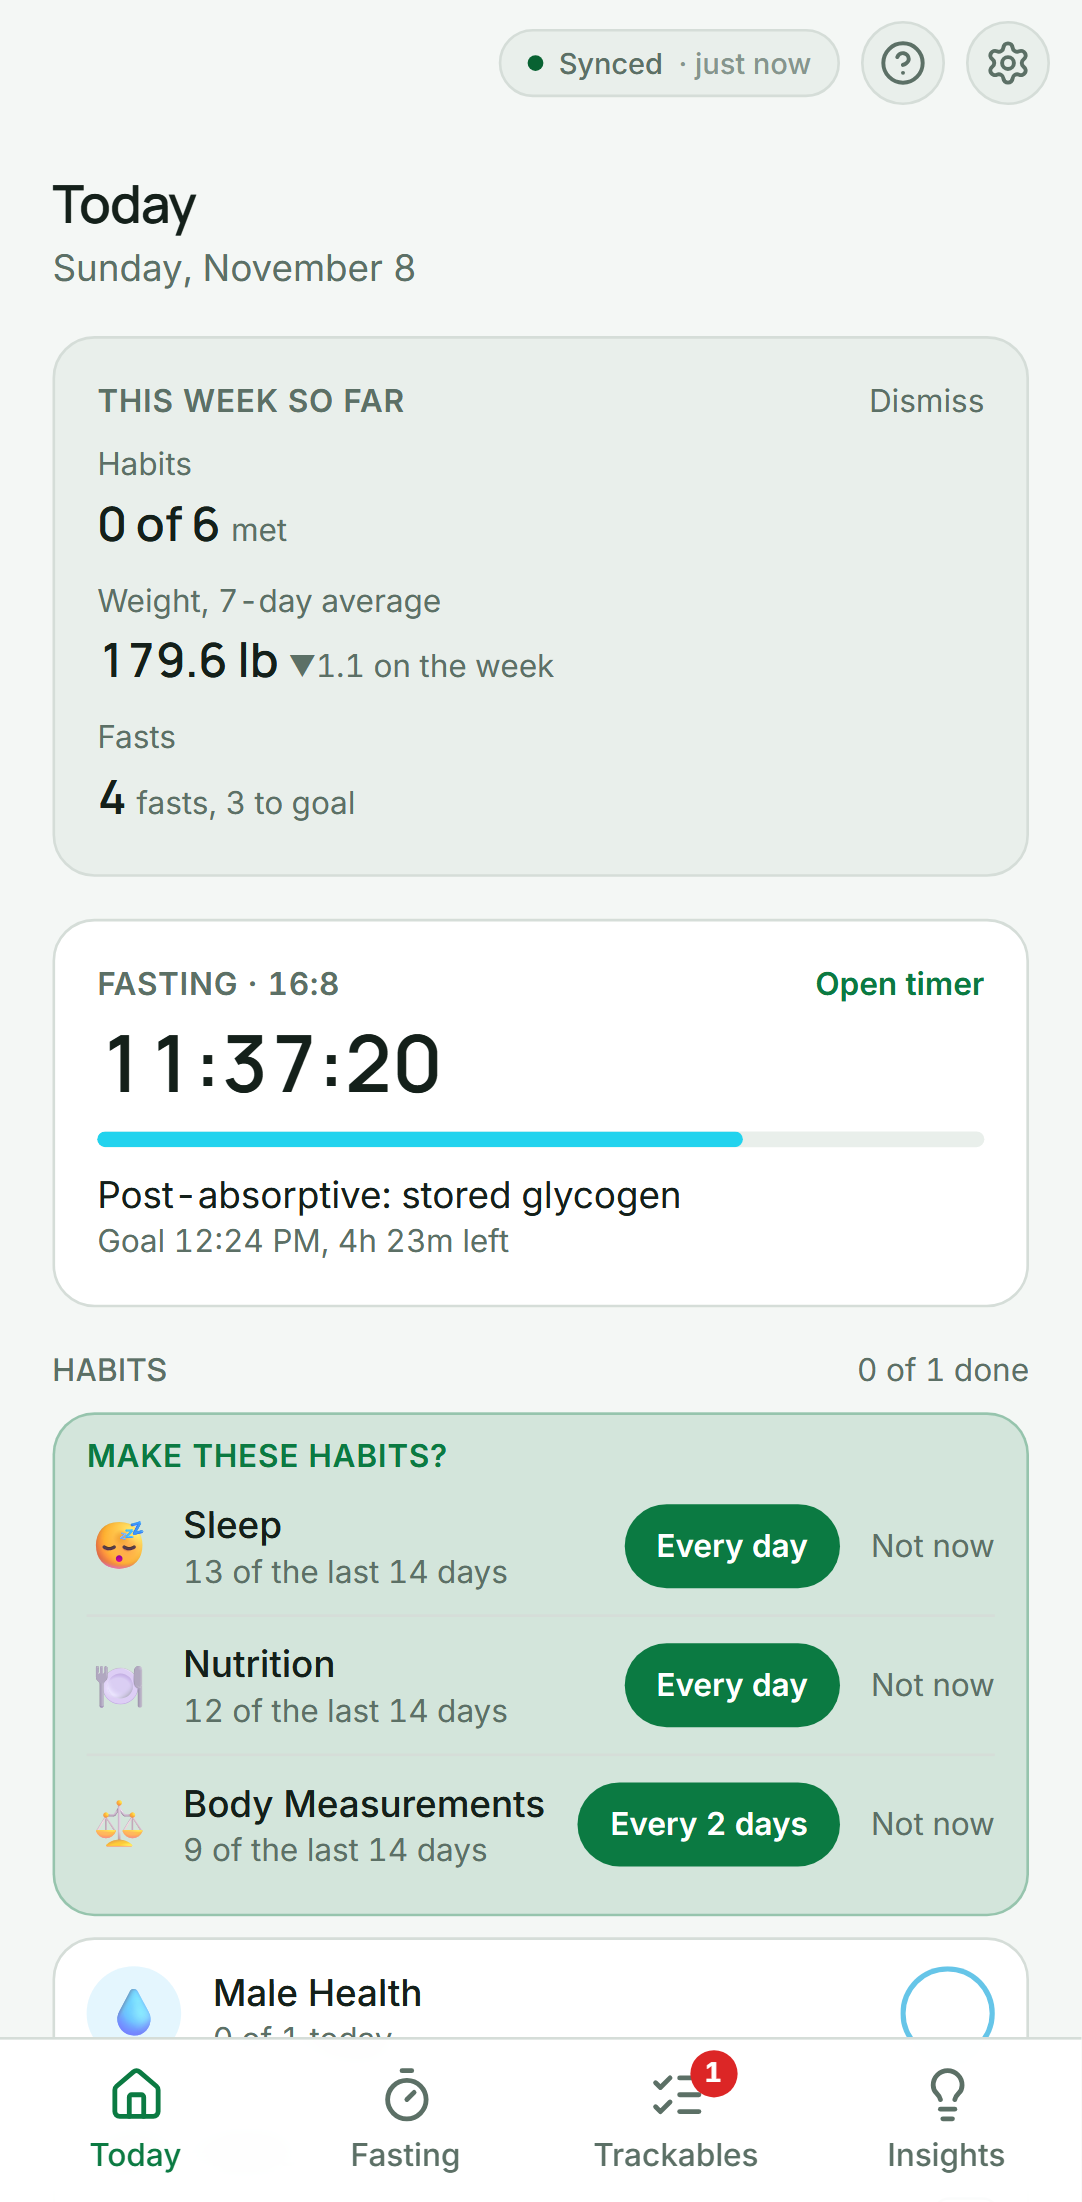
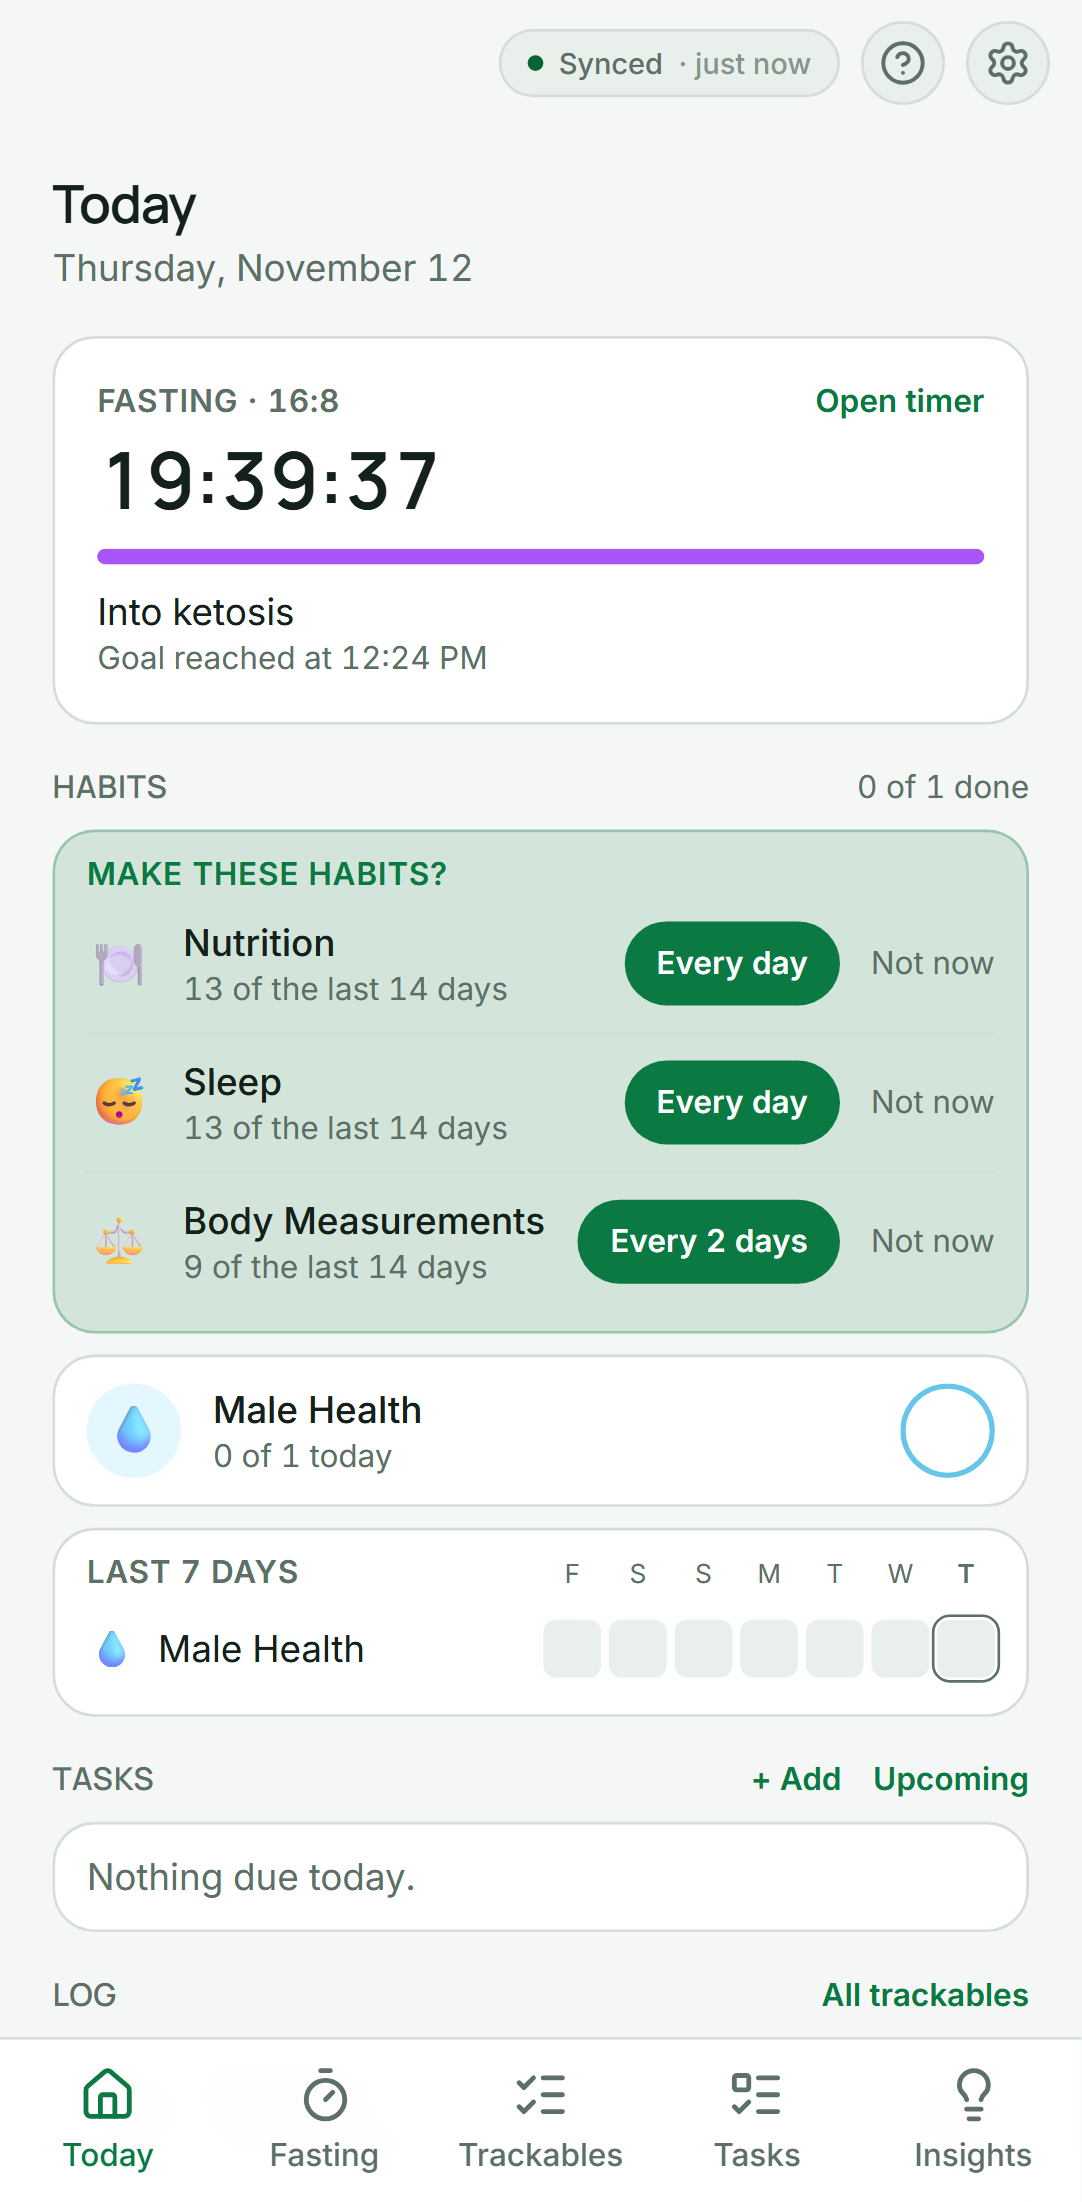
feat: one undo message for the whole app, and README screenshots of Tasks and Done (#93)
## What

Items 4 and 5 of batch B. ARCHITECTURE.md 3.67 covers the first.

- **One undo message for the whole app:** quick logging and task actions
now offer Undo through one store (`stores/undo.svelte.ts`) and one toast
mounted in App. Before this, checking a habit and then a task within six
seconds stacked two messages in the same spot. A newer message now
replaces the older one, and it survives moving between pages.
- **README screenshots of Tasks and Done:** a Garden project and the
Done page, captured from the real app with fictional data by `npm run
screenshots`. Today's screenshot now shows the Tasks block.
- **Browser tests:** the search and overdue tests now wait for a closing
sheet to be gone before the next key or tap. A new test checks that only
one undo message shows at a time.

## Why

Zach approved batch B items 4 and 5 from the project review.

## How it was tested

- `npm run check`: 0 errors
- `npm test`: all passing
- `npm run e2e`: 86 passed, including the new undo test and the search
test, each run 3 times
- I looked at all the new and updated screenshots

## Checklist

- [x] PR title follows Conventional Commits (`feat:`, `fix:`, `docs:`
...)
- [x] Tests added or updated where it makes sense
- [x] README / docs updated if behaviour or config changed
- [x] No secrets, personal data or employer/client names

diff --git a/e2e/screenshots.capture.ts b/e2e/screenshots.capture.ts
@@ -82,6 +82,44 @@ test('capture README screenshots', async ({ page }) => {
   await expect(page.getByRole('heading', { name: 'Dates', level: 1 })).toBeVisible();
   await shot(page, 'dates');
 
+  // Tasks: a project with sections, dates typed in plain words, a repeating task, subtasks, and a few done.
+  await page.goto('/#/tasks');
+  await page.getByRole('button', { name: '+ Project' }).click();
+  const projectSheet = page.getByRole('dialog');
+  await projectSheet.getByRole('textbox', { name: 'Name' }).fill('Garden');
+  await projectSheet.getByRole('combobox', { name: 'Sections' }).selectOption({ label: 'Now / Next / Later' });
+  await projectSheet.getByRole('button', { name: 'Save', exact: true }).click();
+  const add = async (section: string, ...names: string[]) => {
+    const box = page.getByRole('textbox', { name: `Add a task to ${section}` });
+    for (const name of names) {
+      await box.fill(name);
+      await box.press('Enter');
+      await expect(box).toHaveValue('');
+    }
+  };
+  await add('Now', 'Water the tomatoes every 2 days', 'Buy compost tomorrow', 'Fix the fence post fri', 'Plant the bulbs');
+  await add('Next', 'Clean the gutters next week', 'Rake leaves this weekend');
+  await add('Later', 'Build a raised bed', 'Prune the apple tree in 3 months');
+  await page.getByRole('button', { name: /^Fix the fence post/ }).click();
+  const taskSheet = page.getByRole('dialog');
+  for (const sub of ['Buy a post', 'Dig out the old one', 'Set it in concrete']) {
+    await taskSheet.getByRole('textbox', { name: 'New subtask' }).fill(sub);
+    await taskSheet.getByRole('textbox', { name: 'New subtask' }).press('Enter');
+    await expect(taskSheet.getByRole('textbox', { name: 'New subtask' })).toHaveValue('');
+  }
+  await taskSheet.getByRole('checkbox', { name: 'Complete Buy a post' }).click();
+  await page.keyboard.press('Escape');
+  await page.getByRole('checkbox', { name: 'Complete Plant the bulbs' }).click();
+  await page.getByRole('checkbox', { name: 'Complete Water the tomatoes' }).click();
+  await expect(page.getByRole('checkbox', { name: 'Complete Plant the bulbs' })).toHaveCount(0);
+  await page.evaluate(() => window.scrollTo(0, 0));
+  await page.waitForTimeout(6500); // Let the Undo message go.
+  await shot(page, 'tasks');
+
+  await page.goto('/#/tasks/done');
+  await expect(page.getByRole('heading', { name: 'Done', level: 1 })).toBeVisible();
+  await shot(page, 'tasks-done');
+
   // Today: a habit to check (Male Health once a day), the running fast, what's been logged, and the dates just added.
   await page.goto('/#/trackables');
   await page.getByRole('link', { name: /Male Health/ }).click();

diff --git a/src/lib/stores/quickLog.svelte.ts b/src/lib/stores/quickLog.svelte.ts
@@ -1,28 +1,24 @@
 import { addTrackableEntry, deleteTrackableEntry, type TrackableDefinition, type TrackableEntry } from '../db';
 import { formatShortDate, startOfDay } from '../utils/time';
+import { undoToast } from './undo.svelte';
 
 /**
  * Logging from a list: the "+" and check buttons on Trackables and Today, and
  * the day cells of Today's habit matrix. A trackable with fields (or dates)
  * opens the Log entry sheet; one without logs right away, the "I just did it"
  * of a days-since app, and checking it again takes the entry back off. Either
- * way there are a few seconds to undo. QuickLogHost.svelte renders the sheet,
- * the undo toast and errors.
+ * way there are a few seconds to undo (stores/undo.svelte.ts). QuickLogHost.svelte
+ * renders the sheet and errors.
  */
 class QuickLogStore {
   sheetOpen = $state(false);
   sheetTrackable = $state<TrackableDefinition | null>(null);
   /** When the sheet's new entry starts out: a day picked in the matrix; undefined = now. */
   sheetTimestamp = $state<number | undefined>(undefined);
-  undo = $state<{ message: string; revert: () => Promise<unknown> } | null>(null);
   error = $state('');
 
-  private undoTimer: ReturnType<typeof setTimeout> | undefined;
-
   private offerUndo(message: string, revert: () => Promise<unknown>) {
-    clearTimeout(this.undoTimer);
-    this.undo = { message, revert };
-    this.undoTimer = setTimeout(() => (this.undo = null), 6000);
+    undoToast.offer(message, revert);
   }
 
   /** Opens the sheet, or logs a trackable without fields right away. */
@@ -99,14 +95,6 @@ class QuickLogStore {
     const logged = entries.some((e) => startOfDay(e.timestamp) === target);
     if (logged) await this.uncheckOn(t, entries, target);
     else await this.logOn(t, at);
-  }
-
-  async undoNow() {
-    if (!this.undo) return;
-    const { revert } = this.undo;
-    this.undo = null;
-    clearTimeout(this.undoTimer);
-    await revert();
   }
 }
 

diff --git a/e2e/tasks-review.spec.ts b/e2e/tasks-review.spec.ts
@@ -77,3 +77,28 @@ test('Done lists what was completed by day, repeats included, and Insights and t
   await expect(page.getByRole('region', { name: 'Year in review' })).toContainText('Tasks done');
   expect(problems).toEqual([]);
 });
+
+test('one undo message at a time: logging a trackable and then completing a task shows only the latest', async ({ page }) => {
+  await quickAdd(page, 'Post the parcel today');
+  // A trackable without fields logs in one tap, with Undo.
+  await page.goto('/#/trackables');
+  await page.getByRole('button', { name: '+ New' }).click();
+  const sheet = page.getByRole('dialog');
+  await sheet.getByPlaceholder('e.g. Watered Plants').fill('Stretch');
+  await sheet.getByRole('button', { name: 'Save', exact: true }).click();
+  // Saving opens the new trackable's page; go back to the list from there.
+  await expect(page.getByRole('heading', { name: 'Stretch', level: 1 })).toBeVisible();
+  await page.goto('/#/trackables');
+  await expect(page.getByRole('heading', { name: 'Trackables', level: 1 })).toBeVisible();
+  await page.getByRole('button', { name: 'Log Stretch' }).click();
+  const undo = page.getByRole('status').filter({ hasText: 'Undo' });
+  await expect(undo).toContainText('Logged Stretch');
+
+  // Within its six seconds, a task completed on Today replaces it: one message, the latest.
+  await page.goto('/#/');
+  await page.getByRole('region', { name: 'Tasks' }).getByRole('checkbox', { name: 'Complete Post the parcel' }).click();
+  await expect(undo).toHaveCount(1);
+  await expect(undo).toContainText('Completed Post the parcel');
+  await page.getByRole('button', { name: 'Undo' }).click();
+  await expect(page.getByRole('region', { name: 'Tasks' }).getByRole('checkbox', { name: 'Complete Post the parcel' })).toBeVisible();
+});

diff --git a/src/lib/components/TaskHost.svelte b/src/lib/components/TaskHost.svelte
@@ -2,14 +2,13 @@
   import { onDestroy } from 'svelte';
   import { liveQuery } from 'dexie';
   import { db } from '../db';
-  import { fly } from 'svelte/transition';
   import type { Task, TaskProject } from '../db';
   import { taskUi } from '../stores/taskUi.svelte';
   import BottomSheet from './BottomSheet.svelte';
   import TaskSheet from './TaskSheet.svelte';
   import DateChoices from './DateChoices.svelte';
 
-  // The task sheet and the undo toast (stores/taskUi.svelte.ts). Mounted once
+  // The task sheet and the reschedule sheet (stores/taskUi.svelte.ts); the undo message is UndoToast.svelte. Mounted once
   // on each page that lists tasks, with the tasks and projects it already reads.
   let { tasks, projects }: { tasks: readonly Task[]; projects: readonly TaskProject[] } = $props();
   // Only the sheet needs the completion history.
@@ -36,16 +35,6 @@
   }
 </script>
 
-{#if taskUi.undo}
-  <div
-    class="fixed inset-x-0 bottom-20 z-30 mx-auto flex w-[calc(100%-2.5rem)] max-w-md items-center justify-between gap-3 rounded-xl border border-border bg-surface px-4 py-3 text-sm shadow-lg lg:bottom-6"
-    role="status"
-    transition:fly={{ y: 16, duration: 150 }}
-  >
-    <span class="truncate text-text">{taskUi.undo.message}</span>
-    <button class="shrink-0 font-semibold text-brand" onclick={() => taskUi.undoNow()}>Undo</button>
-  </div>
-{/if}
 {#if taskUi.error}
   <p class="px-5 text-sm text-danger">{taskUi.error}</p>
 {/if}

diff --git a/src/lib/stores/taskUi.svelte.ts b/src/lib/stores/taskUi.svelte.ts
@@ -1,6 +1,7 @@
 import { completeTask, db, skipTask, undoComplete, updateTask, type Task } from '../db';
 import { describeDue, dayKey } from '../utils/tasks';
 import { followDueDate } from '../utils/taskRepeat';
+import { undoToast } from './undo.svelte';
 
 /**
  * The task sheet and the "Completed ... Undo" toast, shared by every page that
@@ -14,10 +15,8 @@ class TaskUi {
   /** The task the sheet shows; the sheet follows it as it changes or syncs. */
   taskId = $state<string | null>(null);
   open = $state(false);
-  undo = $state<{ message: string; revert: () => Promise<unknown> } | null>(null);
   error = $state<string | null>(null);
 
-  private undoTimer: ReturnType<typeof setTimeout> | undefined;
 
   show(id: string) {
     this.taskId = id;
@@ -25,9 +24,7 @@ class TaskUi {
   }
 
   private offerUndo(message: string, revert: () => Promise<unknown>) {
-    clearTimeout(this.undoTimer);
-    this.undo = { message, revert };
-    this.undoTimer = setTimeout(() => (this.undo = null), 6000);
+    undoToast.offer(message, revert);
   }
 
   private async attempt(work: () => Promise<void>) {
@@ -107,14 +104,6 @@ class TaskUi {
         for (const b of before) await updateTask(b.id, b.patch);
       });
     });
-  }
-
-  async undoNow() {
-    if (!this.undo) return;
-    const { revert } = this.undo;
-    this.undo = null;
-    clearTimeout(this.undoTimer);
-    await revert();
   }
 }
 

diff --git a/src/lib/components/QuickLogHost.svelte b/src/lib/components/QuickLogHost.svelte
@@ -1,23 +1,12 @@
 <script lang="ts">
-  import { fly } from 'svelte/transition';
   import { quickLog } from '../stores/quickLog.svelte';
   import BottomSheet from './BottomSheet.svelte';
   import LogTrackableEntrySheet from './LogTrackableEntrySheet.svelte';
 
-  // The Log entry sheet, the undo toast and the error line for quick logging
+  // The Log entry sheet and the error line for quick logging (the undo message is UndoToast.svelte)
   // (stores/quickLog.svelte.ts). Mounted once on each page that logs from a list.
 </script>
 
-{#if quickLog.undo}
-  <div
-    class="fixed inset-x-0 bottom-20 z-30 mx-auto flex w-[calc(100%-2.5rem)] max-w-md items-center justify-between gap-3 rounded-xl border border-border bg-surface px-4 py-3 text-sm shadow-lg lg:bottom-6"
-    role="status"
-    transition:fly={{ y: 16, duration: 150 }}
-  >
-    <span class="truncate text-text">{quickLog.undo.message}</span>
-    <button class="shrink-0 font-semibold text-brand" onclick={() => quickLog.undoNow()}>Undo</button>
-  </div>
-{/if}
 {#if quickLog.error}
   <p class="px-5 text-sm text-danger">{quickLog.error}</p>
 {/if}

diff --git a/src/lib/stores/undo.svelte.ts b/src/lib/stores/undo.svelte.ts
@@ -1,0 +1,29 @@
+/**
+ * The one "... Undo" message at the bottom of the screen (UndoToast.svelte,
+ * mounted once in App.svelte). Logging a habit, completing or moving a task,
+ * and anything else that can be taken back for a few seconds offer it here, so
+ * two never stack in the same place: a newer one replaces the older, whose
+ * change simply stays.
+ */
+export const UNDO_MS = 6000;
+
+class UndoStore {
+  current = $state<{ message: string; revert: () => Promise<unknown> } | null>(null);
+  private timer: ReturnType<typeof setTimeout> | undefined;
+
+  offer(message: string, revert: () => Promise<unknown>) {
+    clearTimeout(this.timer);
+    this.current = { message, revert };
+    this.timer = setTimeout(() => (this.current = null), UNDO_MS);
+  }
+
+  async undo() {
+    if (!this.current) return;
+    const { revert } = this.current;
+    this.current = null;
+    clearTimeout(this.timer);
+    await revert();
+  }
+}
+
+export const undoToast = new UndoStore();

diff --git a/src/lib/components/UndoToast.svelte b/src/lib/components/UndoToast.svelte
@@ -1,0 +1,17 @@
+<script lang="ts">
+  import { fly } from 'svelte/transition';
+  import { undoToast } from '../stores/undo.svelte';
+
+  // The one undo message for the whole app (stores/undo.svelte.ts).
+</script>
+
+{#if undoToast.current}
+  <div
+    class="fixed inset-x-0 bottom-20 z-30 mx-auto flex w-[calc(100%-2.5rem)] max-w-md items-center justify-between gap-3 rounded-xl border border-border bg-surface px-4 py-3 text-sm shadow-lg lg:bottom-6"
+    role="status"
+    transition:fly={{ y: 16, duration: 150 }}
+  >
+    <span class="truncate text-text">{undoToast.current.message}</span>
+    <button class="shrink-0 font-semibold text-brand" onclick={() => undoToast.undo()}>Undo</button>
+  </div>
+{/if}

diff --git a/src/App.svelte b/src/App.svelte
@@ -22,6 +22,7 @@
   import { visitStore } from './lib/stores/visit.svelte';
   import ZoneInfoSheet from './lib/components/ZoneInfoSheet.svelte';
   import QuickAddSheet from './lib/components/QuickAddSheet.svelte';
+  import UndoToast from './lib/components/UndoToast.svelte';
   import { quickAdd } from './lib/stores/quickAdd.svelte';
   import { taskSearch } from './lib/stores/taskSearch.svelte';
   import SyncStatus from './lib/components/SyncStatus.svelte';
@@ -133,6 +134,7 @@
 
 <ZoneInfoSheet />
 <QuickAddSheet />
+<UndoToast />
 
 <BottomSheet bind:open={shortcutsOpen}>
   <div class="space-y-3">

diff --git a/README.md b/README.md
@@ -6,12 +6,14 @@
 [![License: MIT](https://img.shields.io/badge/License-MIT-blue.svg)](LICENSE)
 
 <p>
-  <img src="docs/screenshots/today.png" alt="Today with the running fast, a habit to check, the last seven days and what has been logged" width="200">
+  <img src="docs/screenshots/today.png" alt="Today with the running fast, suggested habits, a habit to check, the last seven days and the Tasks block" width="200">
   <img src="docs/screenshots/fasting.png" alt="Fasting timer with a 16:8 fast past its goal, its start, goal and next zone, and the current zone" width="200">
   <img src="docs/screenshots/journey.png" alt="Journey with goal streaks, this week against last, and the fasting days grid" width="200">
   <img src="docs/screenshots/trackables.png" alt="Trackables list showing each one's latest value or when it was last logged" width="200">
   <img src="docs/screenshots/trackable-trends.png" alt="Body Measurements trends table with weekly weight, BMI and body fat" width="200">
   <img src="docs/screenshots/dates.png" alt="Dates list with upcoming birthdays and US holidays and their countdowns" width="200">
+  <img src="docs/screenshots/tasks.png" alt="A Garden project with Now, Next and Later sections, tasks with due dates, a repeating task and a task with subtasks" width="200">
+  <img src="docs/screenshots/tasks-done.png" alt="The Done page listing the tasks completed today, with a repeating task marked on time" width="200">
   <img src="docs/screenshots/insights.png" alt="Insights overview of fasting and each trackable over the last 30 days" width="200">
 </p>
 

diff --git a/ARCHITECTURE.md b/ARCHITECTURE.md
@@ -1453,6 +1453,19 @@ the Tasks page heading and from Repeat in a task's sheet.
   a "Tasks done" tile; the weekly review on Today a Tasks tile with that
   week's count (`tallyTasks`).
 
+### 3.67 One undo message (v1.21.0)
+
+Logging from a list (3.18) and completing, skipping or moving tasks (3.64)
+each had their own "... Undo" message and timer, drawn by their own host
+component, both at the bottom of the screen. Today mounts both hosts, so
+logging a habit and then completing a task within six seconds put two
+messages in the same place, one over the other. Now `stores/undo.svelte.ts`
+holds the one message and `UndoToast.svelte` (mounted once in `App.svelte`)
+draws it; the stores only call `undoToast.offer(message, revert)`. A newer
+offer replaces the older, whose change simply stays, and the message
+survives moving between pages for its six seconds. The README screenshots
+gained Tasks (a project) and Done.
+
 ### 3.21 Trackables list: pin, archive, order; tag filters
 - **Sort** (per device, `zachtrack:trackables-view`): Due first (goal
   urgency from 3.18: overdue, then due, then the rest, then trackables
